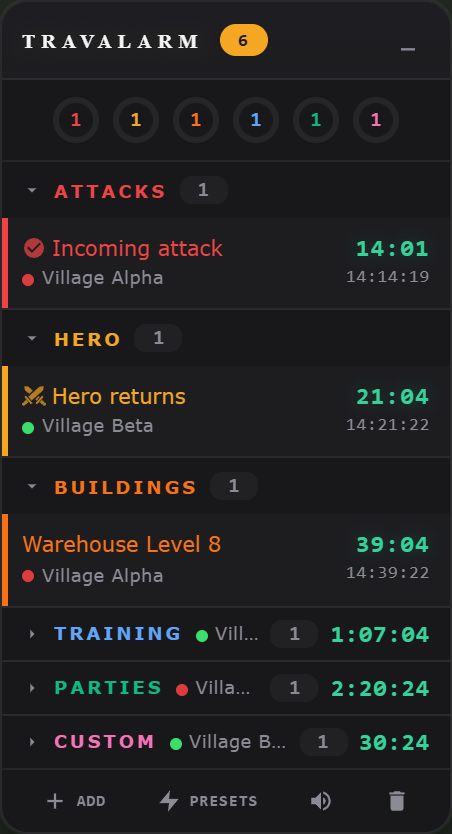
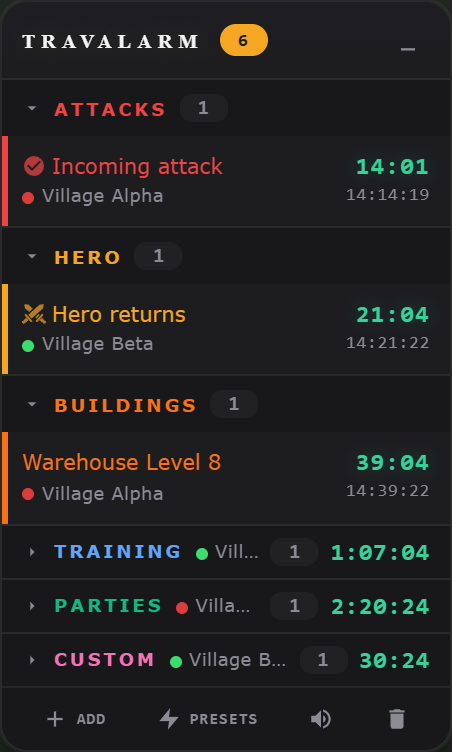
Update TravAlarm daily alarms and remove rings

diff --git a/projects/travian-extensions/extensions/travAlarm/ui.js b/projects/travian-extensions/extensions/travAlarm/ui.js
@@ -193,9 +193,9 @@ function updateSectionHeights(container) {
   const sections = container.querySelectorAll(".tw-section");
   const expanded = [];
 
-  // Measure chrome (titlebar + ring strip + toolbar + world timers)
+  // Measure chrome (titlebar + toolbar + world timers)
   let chromeH = 0;
-  for (const sel of [".tw-titlebar", ".tw-ring-strip", ".tw-toolbar", ".tw-world"]) {
+  for (const sel of [".tw-titlebar", ".tw-toolbar", ".tw-world"]) {
     const el = widget.querySelector(sel);
     if (el) chromeH += el.getBoundingClientRect().height;
   }
@@ -510,7 +510,6 @@ function rebuildUI() {
     if (!listContainer.querySelector(".tw-empty")) {
       listContainer.innerHTML = `<div class="tw-empty">${makeUiIcon("shield")}<span>No Active Timers</span></div>`;
     }
-    updateRingStrip({});
     return;
   }
 
@@ -675,8 +674,6 @@ function rebuildUI() {
   // Remove sections that no longer have alarms
   existingSections.forEach((section) => section.remove());
 
-  // Update ring strip
-  updateRingStrip(groups);
   markLastExpandedSection(listContainer);
 }
 
@@ -738,105 +735,6 @@ function createSectionNode(type, meta) {
 }
 
 // ==========================================
-// RING STRIP
-// ==========================================
-function updateRingStrip(groups) {
-  const strip = document.getElementById("_tw-rings");
-  if (!strip) return;
-
-  const now = Date.now();
-  const sortedTypes = sortSectionTypes(Object.keys(groups), groups);
-
-  // Reconcile existing rings
-  const existingRings = new Map();
-  strip
-    .querySelectorAll(".tw-ring")
-    .forEach((el) => existingRings.set(el.dataset.type, el));
-
-  sortedTypes.forEach((type, idx) => {
-    const alarms = groups[type];
-    const meta = SECTION_META[type] || SECTION_META.building;
-    const count = alarms.length;
-
-    // Find soonest alarm for progress
-    let soonest = alarms[0];
-    alarms.forEach((a) => {
-      if (a.scheduledTime < soonest.scheduledTime) soonest = a;
-    });
-
-    const uid = soonest.id || soonest.name;
-    const firstSeen = firstSeenTimes.get(uid) || now;
-    const totalDuration = Math.max(1, soonest.scheduledTime - firstSeen);
-    const elapsed = now - firstSeen;
-    let progress = Math.min(1, Math.max(0, elapsed / totalDuration));
-    const isDone = soonest.scheduledTime <= now;
-
-    // Compress the last 15% of the ring so long alarms don't look full
-    // when nearly done: maps 0.85–1.0 → 0.85–0.95, keeping a visible gap
-    if (!isDone && progress > 0.85) {
-      progress = 0.85 + (progress - 0.85) * (2 / 4);
-    }
-
-    const circumference = 2 * Math.PI * 10;
-    const dashOffset = circumference * (1 - progress);
-
-    let ring = existingRings.get(type);
-    if (!ring) {
-      ring = document.createElementNS("http://www.w3.org/1999/xhtml", "div");
-      ring.className = "tw-ring";
-      ring.dataset.type = type;
-      ring.title = meta.label;
-      ring.innerHTML = `<svg viewBox="0 0 28 28" width="28" height="28">
-                <circle class="tw-ring-bg" cx="14" cy="14" r="10"/>
-                <circle class="tw-ring-fill" cx="14" cy="14" r="10"
-                    stroke="${meta.color}"
-                    stroke-dasharray="${circumference}"
-                    stroke-dashoffset="${dashOffset}"/>
-                <text class="tw-ring-count" x="14" y="14" fill="${meta.color}">${count}</text>
-            </svg>`;
-      makeKeyboardButton(ring, `${meta.label}: ${count}`);
-      ring.onclick = () => {
-        const section = listContainer.querySelector(
-          `.tw-section[data-type="${type}"]`,
-        );
-        if (section) {
-          section.classList.remove("is-collapsed");
-          collapsedSections.delete(type);
-          expandedSections.add(type);
-          saveSectionState();
-          section.scrollIntoView({ behavior: "smooth", block: "nearest" });
-        }
-      };
-    } else {
-      // Update existing ring
-      const fillCircle = ring.querySelector(".tw-ring-fill");
-      if (fillCircle) {
-        fillCircle.setAttribute("stroke-dashoffset", dashOffset);
-        fillCircle.setAttribute("stroke", meta.color);
-      }
-      const countText = ring.querySelector(".tw-ring-count");
-      ring.setAttribute("aria-label", `${meta.label}: ${count}`);
-      if (countText) {
-        countText.textContent = count;
-        countText.setAttribute("fill", meta.color);
-      }
-      existingRings.delete(type);
-    }
-
-    ring.classList.toggle("is-done", isDone);
-
-    const currentAtIdx = strip.children[idx];
-    if (currentAtIdx !== ring) {
-      if (currentAtIdx) strip.insertBefore(ring, currentAtIdx);
-      else strip.appendChild(ring);
-    }
-  });
-
-  // Remove rings for types no longer active
-  existingRings.forEach((ring) => ring.remove());
-}
-
-// ==========================================
 // TOOLTIP
 // ==========================================
 function createGlobalTooltip() {
@@ -891,7 +789,8 @@ function escapeHtml(text) {
   return String(text).replace(/[&<>"']/g, (c) => `&#${c.charCodeAt(0)};`);
 }
 function getNameOnlyDisplay(rawName, isRecurring) {
-  const s = getStructuredName(rawName, isRecurring);
+  const dailyName = rawName.replace(/^📅\s*/u, "");
+  const s = getStructuredName(dailyName, isRecurring);
   let html = "";
   if (s.iconHtml) html += s.iconHtml;
   html += escapeHtml(s.name);
@@ -1012,7 +911,7 @@ function setupAlarmListeners(node, a, uniqueId) {
       if (tagMatch) currentTag = tagMatch[0];
 
       const prefixMatch = a.name.match(/^(⭐|📅|🚜)\s*/u);
-      const namePrefix = prefixMatch ? prefixMatch[1] : "⭐";
+      const namePrefix = prefixMatch ? prefixMatch[1] : a.customType === "daily" ? "" : "⭐";
       let middleContent = a.name
         .replace(currentTag, "")
         .replace(/^(?:⭐|📅|🚜)\s*/u, "")
@@ -1404,7 +1303,7 @@ async function handleDropdownAction(val, label, isFarmList, isDaily) {
     return;
   }
   const vName = getActiveVillageName();
-  const prefix = isDaily ? "📅" : isFarmList ? "🚜" : "⭐";
+  const prefix = isDaily ? "" : isFarmList ? "🚜" : "⭐";
   const customType = isDaily ? "daily" : isFarmList ? "farmlist" : null;
   const isSticky = isFarmList || isDaily;
   api.runtime
@@ -1478,8 +1377,6 @@ const WIDGET_HTML = `
             </button>
         </div>
     </div>
-
-    <div class="tw-ring-strip" id="_tw-rings"></div>
 
     <div class="tw-body">
         <div id="_tw-tl"></div>

diff --git a/projects/travian-extensions/extensions/travAlarm/content.css b/projects/travian-extensions/extensions/travAlarm/content.css
@@ -69,16 +69,6 @@
   }
 }
 
-@keyframes tw-ring-pulse {
-  0%,
-  100% {
-    filter: drop-shadow(0 0 2px currentColor);
-  }
-  50% {
-    filter: drop-shadow(0 0 6px currentColor);
-  }
-}
-
 @keyframes tw-count-pop {
   0% {
     transform: scale(1);
@@ -112,10 +102,10 @@
 #_tw-w {
   position: fixed;
   right: 5px;
-  top: 146px;
-  width: 224px;
+  top: 75px;
+  width: 225px;
   height: fit-content;
-  max-height: min(750px, calc(100vh - 160px));
+  max-height: min(950px, calc(100vh - 160px));
   z-index: 9999;
   background: var(--tw-bg);
   border-radius: 14px;
@@ -218,68 +208,9 @@
 .is-minimized .tw-toolbar {
   display: none;
 }
-.is-minimized .tw-ring-strip {
-  display: flex !important;
-}
-
-/* When minimized, ring strip moves into titlebar area */
+/* When minimized, keep the titlebar compact. */
 .is-minimized .tw-titlebar {
   border-bottom: none;
-}
-
-/* -----------------------------------------
-   RING STRIP
-   ----------------------------------------- */
-.tw-ring-strip {
-  display: flex;
-  align-items: center;
-  justify-content: center;
-  gap: 2px;
-  padding: 6px 0px;
-  background: var(--tw-surface);
-  border-bottom: 1px solid var(--tw-border);
-  min-height: 28px;
-  flex-wrap: wrap;
-}
-
-.tw-ring-strip:empty {
-  display: none;
-}
-
-.tw-ring {
-  width: 28px;
-  height: 28px;
-  cursor: pointer;
-  transition: transform 0.15s ease;
-  position: relative;
-}
-.tw-ring:hover {
-  transform: scale(1.15);
-}
-
-.tw-ring-bg {
-  fill: none;
-  stroke: rgba(255, 255, 255, 0.18);
-  stroke-width: 3;
-}
-.tw-ring-fill {
-  fill: none;
-  stroke-width: 3;
-  stroke-linecap: round;
-  transition: stroke-dashoffset 1s linear;
-  transform: rotate(-90deg);
-  transform-origin: center;
-}
-.tw-ring-count {
-  font-family: "JetBrains Mono", monospace;
-  font-size: 10px;
-  font-weight: 700;
-  dominant-baseline: central;
-  text-anchor: middle;
-}
-
-.tw-ring.is-done .tw-ring-fill {
-  animation: tw-ring-pulse 1s infinite;
 }
 
 /* -----------------------------------------
@@ -1095,10 +1026,6 @@
 .tw-section-header:has(.tw-section-label:focus-visible) {
   outline: 2px solid var(--tw-accent);
   outline-offset: -2px;
-}
-#_tw-w .tw-ring:focus-visible {
-  outline-offset: 0;
-  border-radius: 50%;
 }
 .tw-icon-btn:active,
 .tw-tool-btn:active,

diff --git a/projects/travian-extensions/extensions/travAlarm/helpers.js b/projects/travian-extensions/extensions/travAlarm/helpers.js
@@ -170,7 +170,7 @@ function calculateDelayFromSmartText(text, node = null) {
 function cleanAlarmName(rawName) {
   let clean = rawName.replace(/\[[^\]]+\]/g, "").trim();
   clean = clean.replace(/\s{2,}/g, " ");
-  clean = clean.replace(/^(?:⭐|⚔|⚔|🎓|📦|🌾|🪵|🧱|🔩|🎉|🚨|⚠|⚠)\s*/u, "");
+  clean = clean.replace(/^(?:⭐|📅|⚔|⚔|🎓|📦|🌾|🪵|🧱|🔩|🎉|🚨|⚠|⚠)\s*/u, "");
   clean = clean.replace(/<span class="hero-icon">⚔?<\/span>\s*/g, "");
   return clean.trim();
 }

diff --git a/projects/travian-extensions/docs/USAGE.md b/projects/travian-extensions/docs/USAGE.md
@@ -52,7 +52,7 @@ Unknown-age or incomplete readings are excluded. **Errors** shows scan problems,
 
 <a href="images/travalarm.png"><img src="images/travalarm.png" alt="TravAlarm grouped timer dashboard" width="224" /></a>
 
-**Features:** grouped timers for attacks, hero movements, construction, training, Academy research and Smithy upgrades (named by unit, with the Smithy target level), training rows coloured per building, storage, celebrations, and farm lists; village labels/colors; custom reminders; recurring/daily presets; countdowns; pin/delete controls; draggable/collapsible panel; category sound settings; volume; browser alarms and notifications. Research and upgrade alarms update when the Academy or Smithy page is opened. An **Oasis respawn** countdown runs to the end of the world's starting beginner protection, when oasis animals begin to respawn, with alarms 45 minutes before and at the protection end.
+**Features:** grouped timers for attacks, hero movements, construction, training, Academy research and Smithy upgrades (named by unit, with the Smithy target level), training rows coloured per building, storage, celebrations, and farm lists; village labels/colors; custom reminders; recurring/daily presets; countdowns; pin/delete controls; draggable/collapsible panel; category sound settings; volume; browser alarms and notifications. Daily alarms display without an emoji, and the dashboard uses grouped lists without ring gauges. Research and upgrade alarms update when the Academy or Smithy page is opened. An **Oasis respawn** countdown runs to the end of the world's starting beginner protection, when oasis animals begin to respawn, with alarms 45 minutes before and at the protection end.
 
 **Usage:**
 
@@ -104,14 +104,14 @@ The farm-list screenshot uses a sample table with the extension's selection high
 
 1. Open a logged-in Travian tab and click the extension icon to register the server and collect statistics.
 2. Use **Now** for rankings and changes. Expand **Prod / Hour** for Fields + raiding, Raids, and **Raids (no animals)**. The raid rates average the trailing 3 hours; the no-animals row excludes 160 resources per animal killed. The status in the top bar shows the last update. Background collection runs approximately every 30 minutes while the browser and session are available. Weekly tables refresh when the popup is opened; the Weekly header shows when they were observed. Cached weekly values are not recorded as new history.
-3. Use **History** to pick metrics in the sidebar, drag across the chart to compare two points, and scroll on the chart to zoom (Shift + scroll pans), or pick a quick range (3h–1w; click it again to show all). Under **Raids**, select **Avg/h with animals** and **Avg/h without animals** for trailing 3-hour gains divided by 3 (animals × 160 resources). These stay hourly averages in both modes and require 3 hours of saved history. **Daily peaks** aggregates observations; **Per hour** shows change per hour; raid and PvE counters show the total gained in the trailing 3 hours. **Save group** stores the visible metrics; **Clear** hides all. Weekly statistics reset; value changes and hourly rates bridge observed resets rather than reporting the old total as a loss. Gains during missing observations cannot be recovered.
+3. Use **History** to pick metrics in the sidebar, drag across the chart to compare two points, and scroll on the chart to zoom (Shift + scroll pans), or pick a quick range (3h–1w; click it again to show all). The comparison shows the change and time-weighted average plotted value across the selected range. **Daily peaks** aggregates observations; **Per hour** shows change per hour; raid and PvE counters show the total gained in the trailing 3 hours. **Save group** stores the visible metrics; **Clear** hides all. Weekly statistics reset; value changes and hourly rates bridge observed resets rather than reporting the old total as a loss. Gains during missing observations cannot be recovered.
 4. Use the export icon (arrow down) to save data. The import icon (arrow up) restores a backup and asks before deleting data the backup does not contain; export existing data before importing. The star icon lists the rank tiers.
 
 For expired sessions, log in and reopen the popup. Missing observations cannot be reconstructed.
 
 <a href="images/rank-history.png"><img src="images/rank-history.png" alt="Rank Tracker history graph" width="520" /></a>
 
-<a href="images/rank-raid-hourly.jpg"><img src="images/rank-raid-hourly.jpg" alt="Hourly raiding averages with and without animals, using synthetic preview data" width="520" /></a>
+<a href="images/rank-compare.png"><img src="images/rank-compare.png" alt="Drag comparison showing the average across the selected range, using synthetic preview data" width="520" /></a>
 
 ## Next Settlement Calc
 

diff --git a/projects/travian-extensions/extensions/travAlarm/README.md b/projects/travian-extensions/extensions/travAlarm/README.md
@@ -2,7 +2,7 @@
 
 Groups game timers and custom reminders with browser notifications, category sound settings and an all-sounds mute.
 
-**Version 3.47 · JavaScript · Manifest V3**
+**Version 3.49 · JavaScript · Manifest V3**
 
 [Usage guide](../../docs/USAGE.md#travalarm) · [Installation](../../README.md#install-in-brave-chrome-or-edge) · [All extensions](../../README.md)
 
